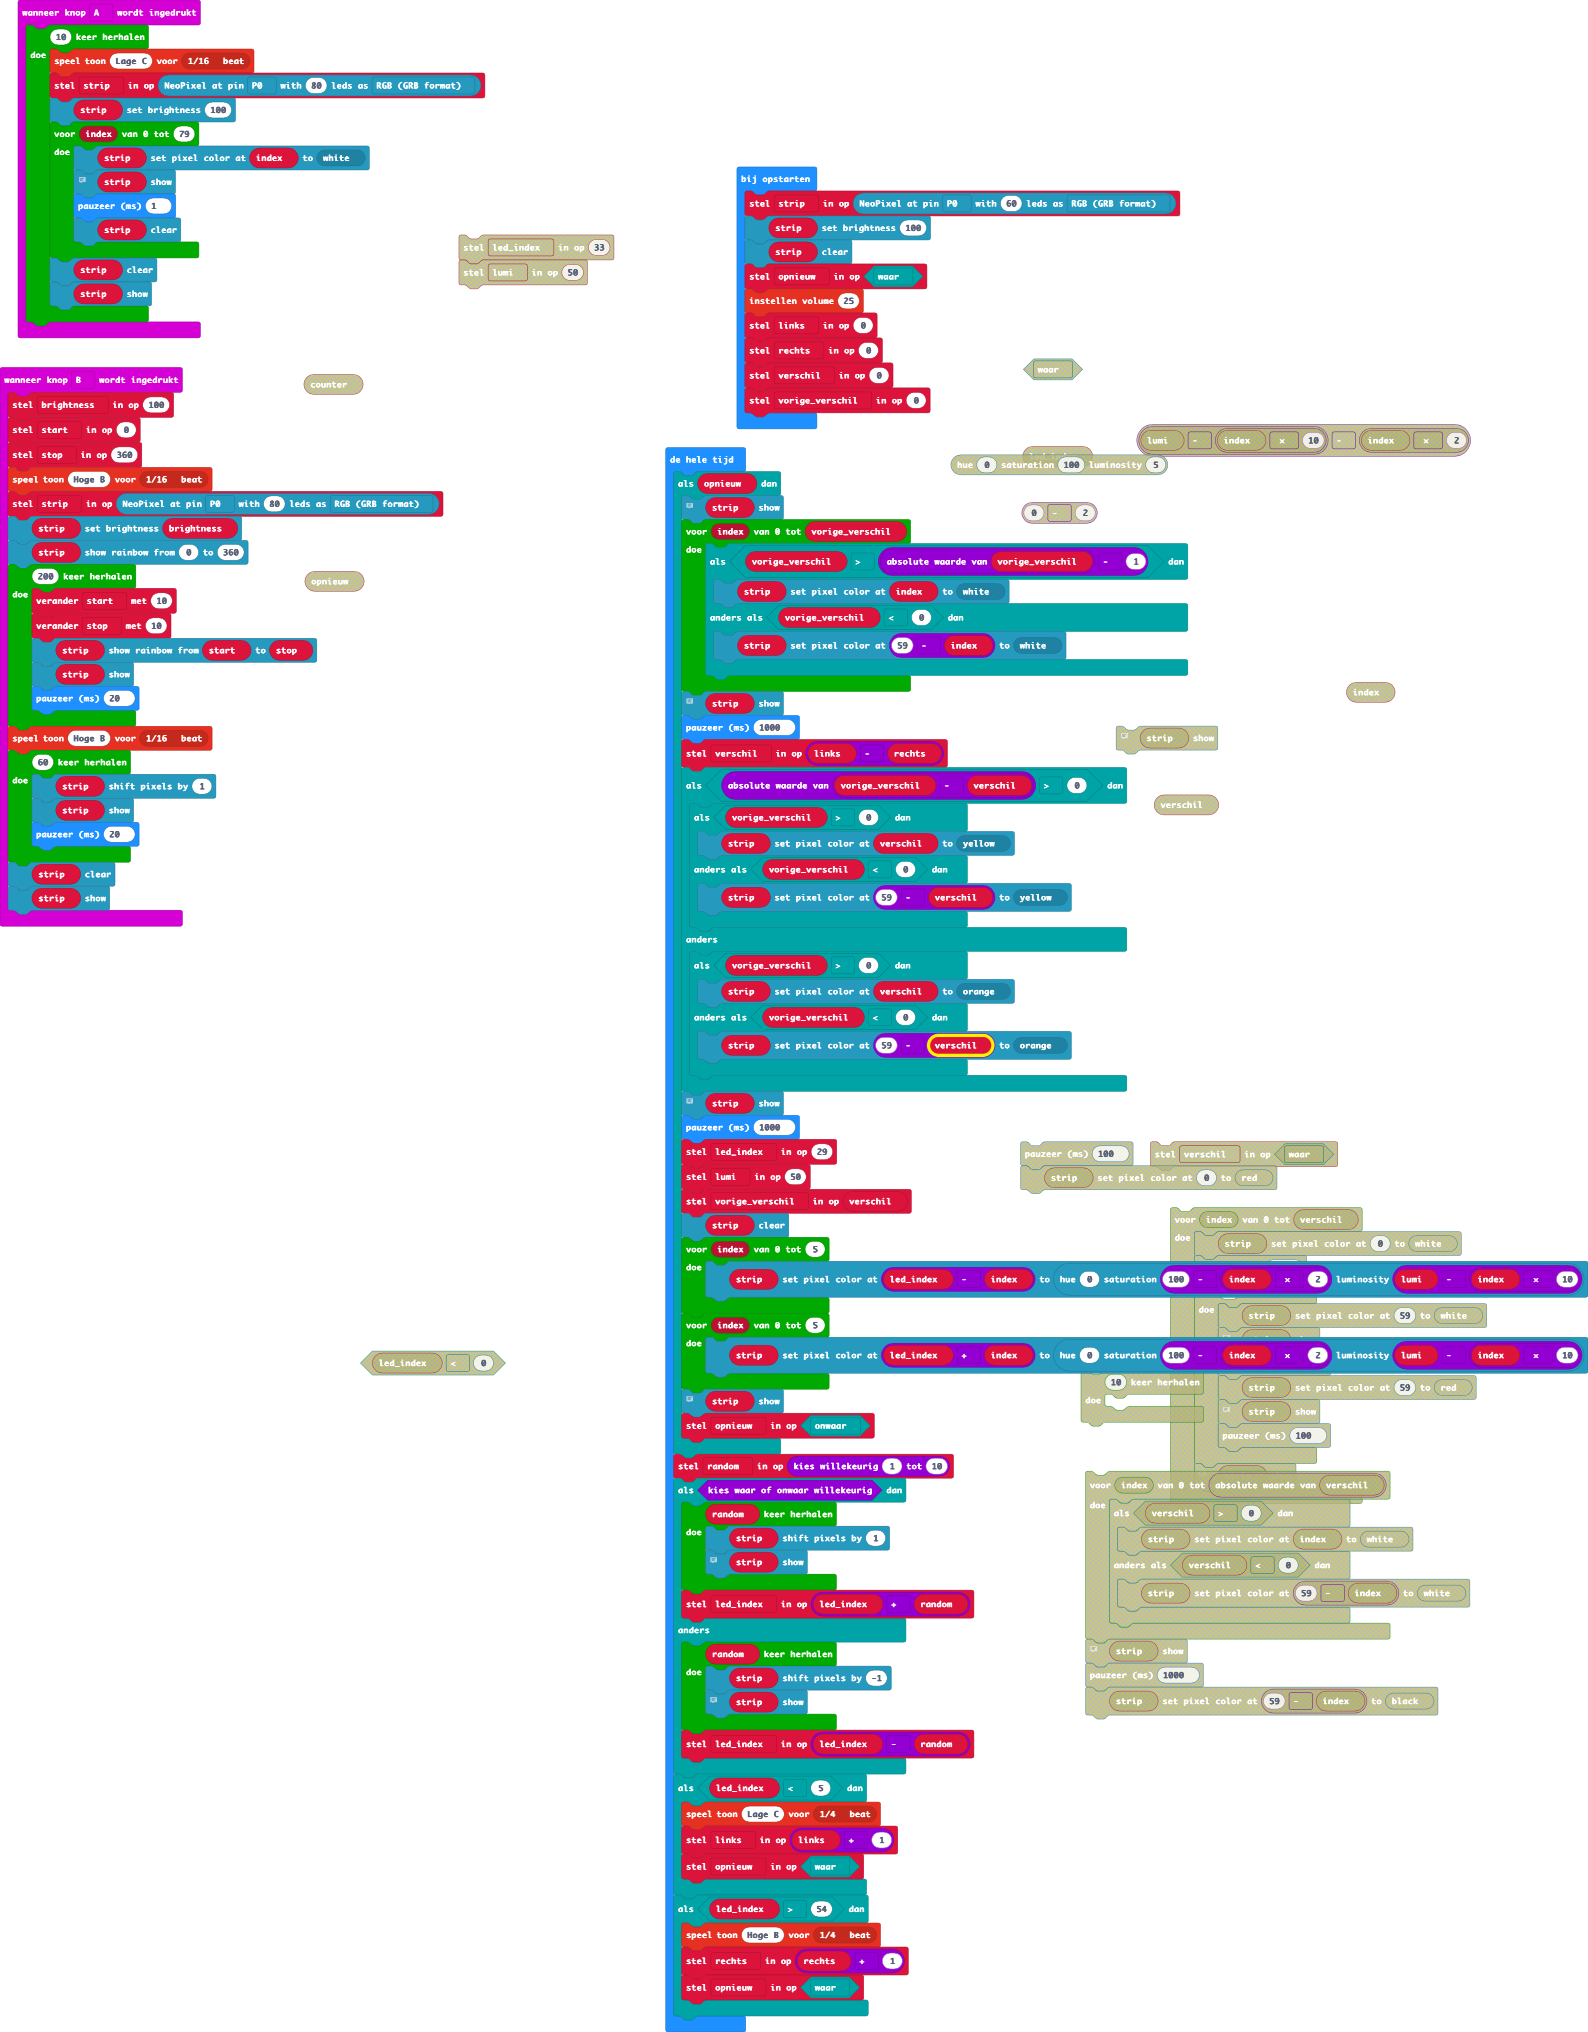
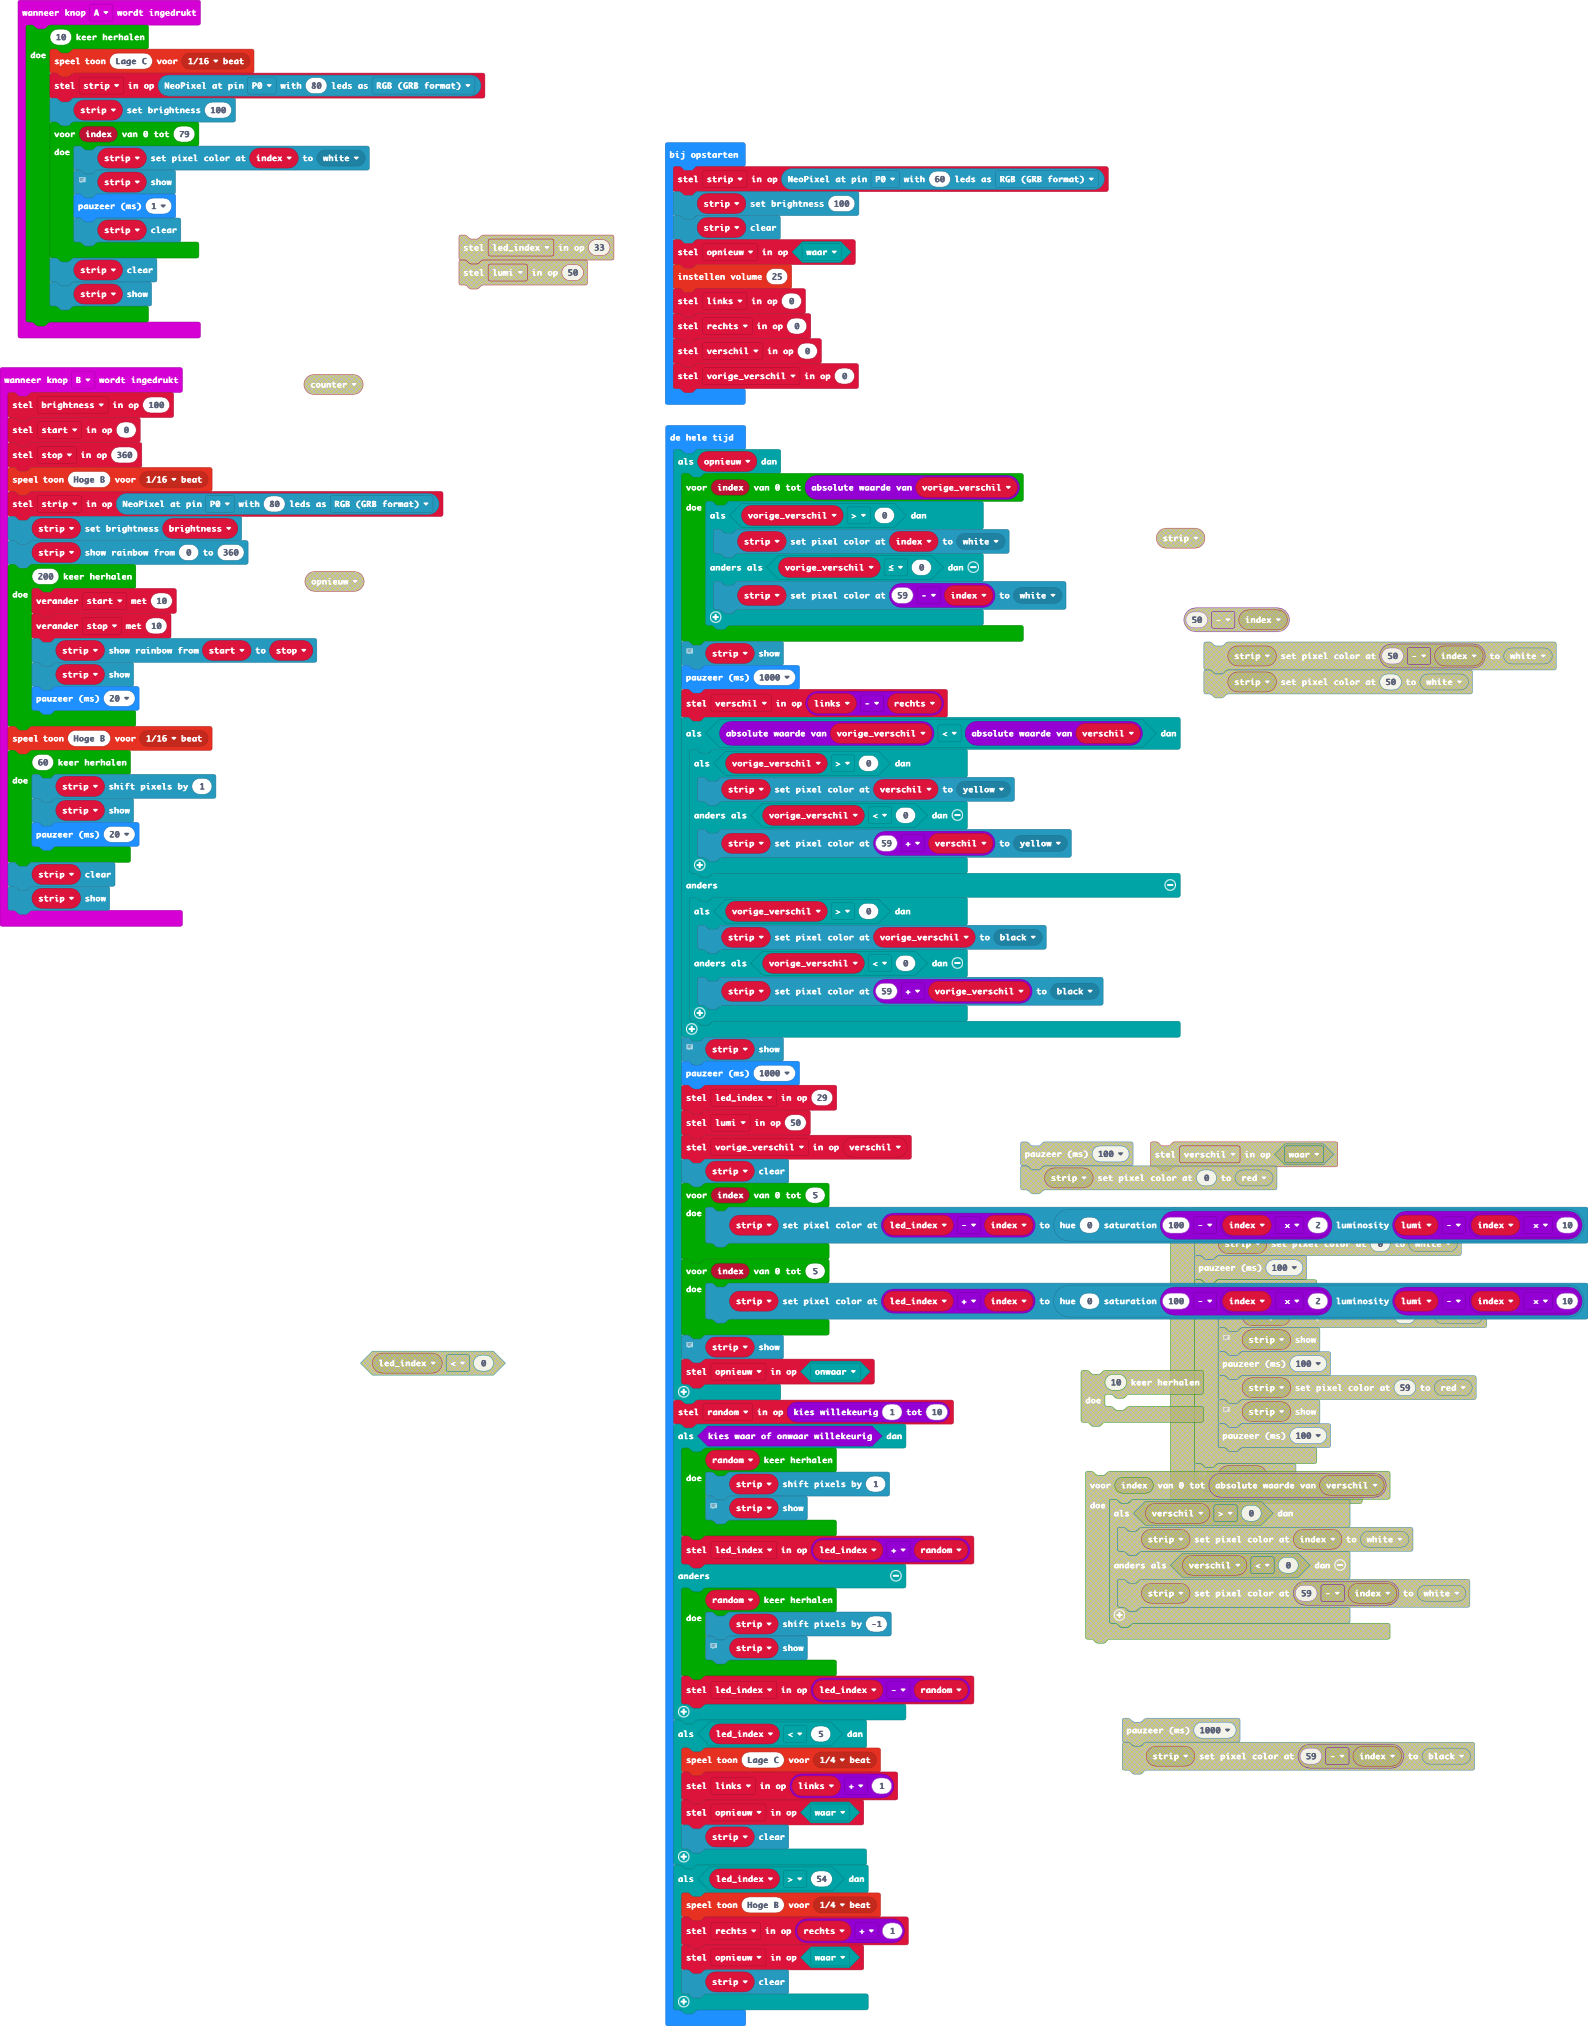
main.blocks, main.ts bijwerken

diff --git a/main.ts b/main.ts
@@ -56,12 +56,10 @@ let verschil = 0
 let vorige_verschil = 0
 basic.forever(function () {
     if (opnieuw) {
-        // Pas bij dit blok worden de hiervoor ingestelde aanpassingen getoond.
-        strip.show()
-        for (let index = 0; index <= vorige_verschil; index++) {
-            if (vorige_verschil > Math.abs(vorige_verschil) - 1) {
+        for (let index = 0; index <= Math.abs(vorige_verschil); index++) {
+            if (vorige_verschil > 0) {
                 strip.setPixelColor(index, neopixel.colors(NeoPixelColors.White))
-            } else if (vorige_verschil < 0) {
+            } else if (vorige_verschil <= 0) {
                 strip.setPixelColor(59 - index, neopixel.colors(NeoPixelColors.White))
             }
         }
@@ -69,17 +67,17 @@ basic.forever(function () {
         strip.show()
         basic.pause(1000)
         verschil = links - rechts
-        if (Math.abs(vorige_verschil - verschil) > 0) {
+        if (Math.abs(vorige_verschil) < Math.abs(verschil)) {
             if (vorige_verschil > 0) {
                 strip.setPixelColor(verschil, neopixel.colors(NeoPixelColors.Yellow))
             } else if (vorige_verschil < 0) {
-                strip.setPixelColor(59 - verschil, neopixel.colors(NeoPixelColors.Yellow))
+                strip.setPixelColor(59 + verschil, neopixel.colors(NeoPixelColors.Yellow))
             }
         } else {
             if (vorige_verschil > 0) {
-                strip.setPixelColor(verschil, neopixel.colors(NeoPixelColors.Orange))
+                strip.setPixelColor(vorige_verschil, neopixel.colors(NeoPixelColors.Black))
             } else if (vorige_verschil < 0) {
-                strip.setPixelColor(59 - verschil, neopixel.colors(NeoPixelColors.Orange))
+                strip.setPixelColor(59 + vorige_verschil, neopixel.colors(NeoPixelColors.Black))
             }
         }
         // Pas bij dit blok worden de hiervoor ingestelde aanpassingen getoond.
@@ -119,10 +117,12 @@ basic.forever(function () {
         music.playTone(131, music.beat(BeatFraction.Quarter))
         links = links + 1
         opnieuw = true
+        strip.clear()
     }
     if (led_index > 54) {
         music.playTone(988, music.beat(BeatFraction.Quarter))
         rechts = rechts + 1
         opnieuw = true
+        strip.clear()
     }
 })
